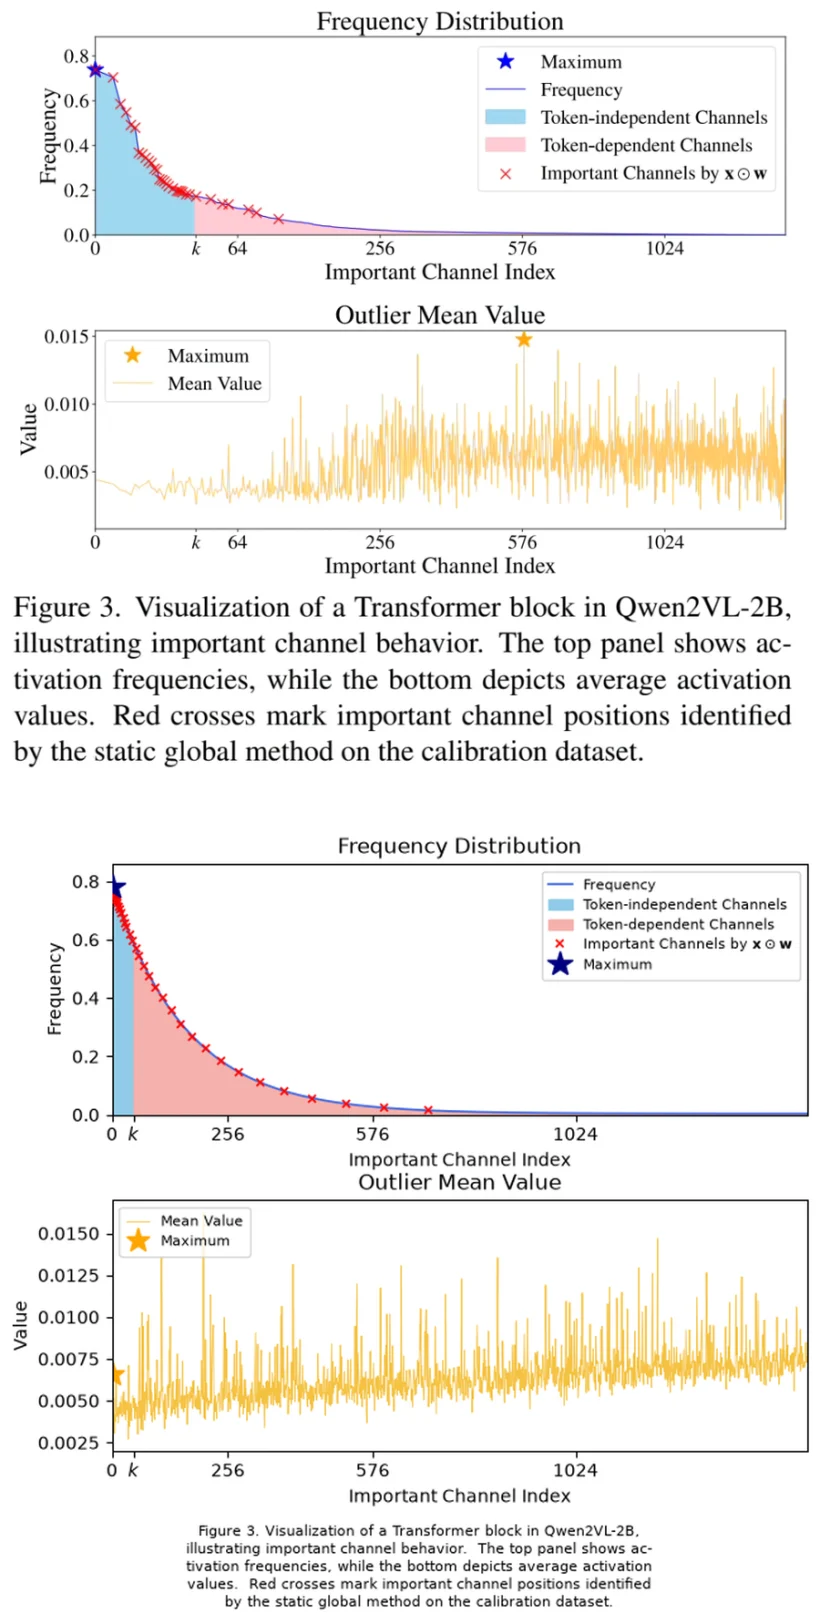
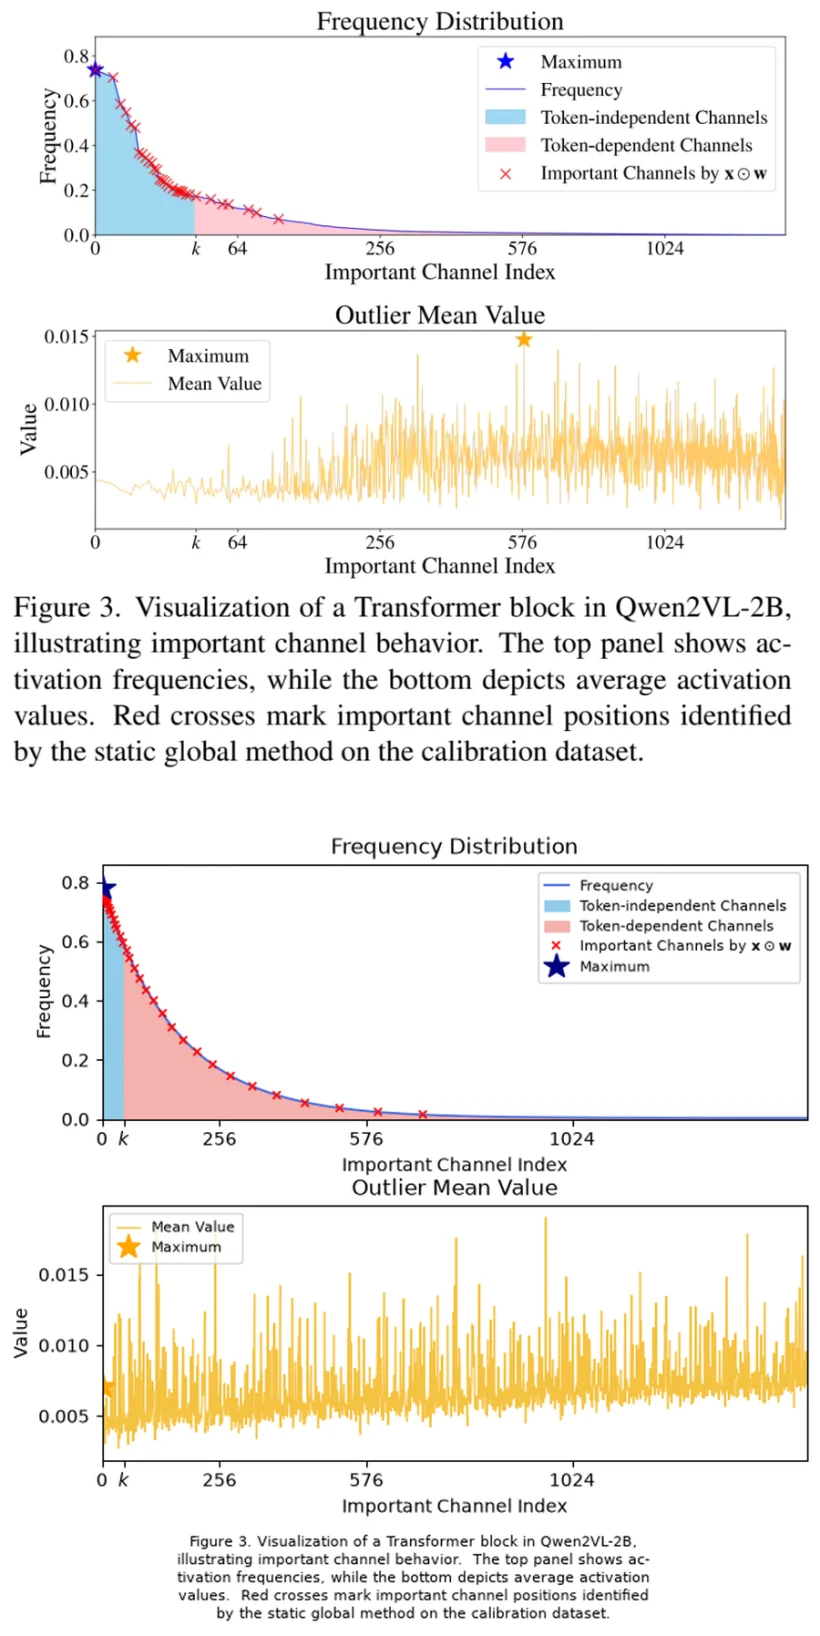
improve(replicas): 第五十六轮 —— 10 下半尖峰图加密（89%→102%）
上下分区探针：
  原图 上半 0.136 / 下半 0.221
  修前 上半 0.133 / 下半 0.176   ← 上半已匹配，下半差 20%
  现在 上半 0.135 / 下半 0.238   ← 99% / 108%

- 尖峰密度 0.16 → 0.26
- 尖峰幅度 gamma(2.2,0.0011) → gamma(2.4,0.0014)
- 均值线 lw 0.55 → 0.95

踩了个坑：前两次替换没生效，因为用 startswith('REPLICAS = [') 找区间终点，
但 fig01-06 用的是 REPLICAS = [...]、fig07-10 用的是 REPLICAS += [...]，
找到的是前面那个，导致区间为空。改成从 start 往后找第一个 REPLICAS 才对。

平均墨迹 97% → 98%

diff --git a/tools/figlab/replicas.py b/tools/figlab/replicas.py
@@ -649,6 +649,272 @@ def fig09():
     return _save(fig, "rep-09-activation-heatmap")
 
 
+REPLICAS = [
+    ("01-memory-latency", fig01, "效率 · 显存分解 + 端到端延迟",
+     "左侧破坏性堆叠条拆解显存（权重/前向/反向/梯度），右侧横向条对比端到端延迟，虚线+倍数标注加速比",
+     "efficiency", ["ICML", "NeurIPS", "MLSys"], ["效率"]),
+    ("02-fusion-gain", fig02, "效率 · 逐项融合增益",
+     "四行横向条逐级下降，弧形箭头标出每步增益，底部括号给总加速比",
+     "efficiency", ["MLSys", "ICML", "OSDI"], ["效率"]),
+    ("03-accuracy-tradeoff", fig03, "权衡 · 精度曲线 + 断轴消融",
+     "双折线对比多种量化方法随 cache 精度的衰减，(c) 用断轴柱状展示 stage 数的影响",
+     "tradeoff", ["ICLR", "ICML", "NeurIPS"], ["量化"]),
+    ("04-latency-scaling", fig04, "效率 · 延迟与显存扩展",
+     "横向条对比生成延迟 + 两条扩展曲线（VRAM / 延迟 vs 视频长度），带 OOM 标注",
+     "efficiency", ["CVPR", "ICCV", "NeurIPS"], ["生成"]),
+]
+
+# ---------------------------------------------------------------- 07 分组柱 + 并列热图
+
+def fig07():
+    fig = plt.figure(figsize=(6.6, 7.9))
+    gs = fig.add_gridspec(2, 3, height_ratios=[0.82, 1.0], hspace=0.30, wspace=0.32)
+
+    # ---- 上：分组柱（3 系列 × 6 稀疏度）
+    ax = fig.add_subplot(gs[0, :])
+    levels = [40, 50, 60, 70, 80, 90]
+    series = {
+        "MInference": ([40.4, 34.1, 27.3, 20.9, 14.3, 7.1], "#9E9E9E"),
+        "LServe": ([30.0, 25.3, 20.3, 15.9, 10.8, 5.5], "#8C1D2F"),
+        "Oracle": ([25.4, 21.2, 16.9, 12.7, 8.5, 4.2], "#FFFFFF"),
+    }
+    x = np.arange(len(levels))
+    w = 0.26
+    for i, (name, (vals, col)) in enumerate(series.items()):
+        off = (i - 1) * w
+        ec = "black" if name == "Oracle" else "none"
+        ax.bar(x + off, vals, w, color=col, edgecolor=ec, linewidth=0.7,
+               label=name, zorder=3)
+    for i, (name, (vals, col)) in enumerate(series.items()):
+        off = (i - 1) * w
+        for xi, v in zip(x + off, vals):
+            ax.text(xi, v + 0.7, "%.1f" % v, ha="center", va="bottom", fontsize=6.4,
+                    rotation=90)
+    ax.set_xticks(x, [str(l) for l in levels])
+    ax.set_xlabel("Sparsity Level (%)", fontsize=11)
+    ax.set_ylabel("Latency (ms)", fontsize=11)
+    ax.set_ylim(0, 48)
+    ax.set_yticks([0, 10, 20, 30, 40])
+    ax.axhline(42.3, ls=(0, (2, 1.5)), color="#C0392B", lw=1.1, zorder=2)
+    ax.text(5.3, 43.4, "Dense Attention: 42.3 ms", color="#C0392B", fontsize=8.2,
+            ha="right", va="bottom", fontweight="bold")
+    ax.legend(loc="upper center", bbox_to_anchor=(0.5, 1.13), ncol=3, frameon=False,
+              fontsize=9, handlelength=1.1)
+    # 1.3x 标注
+    ax.annotate("1.3 ×", xy=(x[0] + 0.0, 33), xytext=(x[0] - 0.62, 37),
+                fontsize=8.6, color="#C0392B",
+                arrowprops=dict(arrowstyle="-|>", color="#C0392B", lw=1.0,
+                                connectionstyle="arc3,rad=0.3", mutation_scale=10))
+    ax.annotate("1.3 ×", xy=(x[-1] + 0.0, 6.4), xytext=(x[-1] - 0.75, 9.4),
+                fontsize=8.6, color="#C0392B",
+                arrowprops=dict(arrowstyle="-|>", color="#C0392B", lw=1.0,
+                                connectionstyle="arc3,rad=0.3", mutation_scale=10))
+    ax.set_title("Figure 12: Prefilling Stage Attention Kernel Evaluation.",
+                 fontsize=10.5, fontweight="bold", pad=30)
+
+    # ---- 下：三张热图 + 共享色条
+    from matplotlib.colors import LinearSegmentedColormap
+    cmap_hm = LinearSegmentedColormap.from_list(
+        'acc', ['#E24A33', '#F2C230', '#7FD8A0', '#20C080'])
+    rng = np.random.default_rng(7)
+    titles = ["(a) $N_P$ = 64, $N_L$ = 16,  Budget: 3072",
+              "(b) $N_P$ = 32, $N_L$ = 16,  Budget: 3072",
+              "(c) $N_P$ = 64, $N_L$ = 16,  Budget: 3072"]
+    im = None
+    axes_hm = []
+    for k in range(3):
+        axh = fig.add_subplot(gs[1, k])
+        data = np.full((12, 7), 0.94)
+        # 少量低分格子
+        for _ in range(rng.integers(3, 6)):
+            data[rng.integers(0, 12), rng.integers(0, 7)] = rng.choice([0.18, 0.30, 0.45])
+        im = axh.imshow(data, cmap=cmap_hm, vmin=0.0, vmax=1.06, aspect="auto")
+        axh.set_title(titles[k], fontsize=6.8, pad=3)
+        axh.set_yticks(range(12))
+        axh.set_yticklabels(["", "0", "", "22", "", "44", "", "67", "", "89", "", ""],
+                            fontsize=5.6)
+        axh.set_xticks(range(7))
+        axh.set_xticklabels(["0K", "49K", "85K", "128K", "171K", "211K", "256K"],
+                            fontsize=5.2, rotation=35, ha="right")
+        if k == 0:
+            axh.set_ylabel("Document Depth (%)", fontsize=6.6)
+        axh.set_xlabel("Document Length", fontsize=6.6)
+        axes_hm.append(axh)
+
+    cax = fig.add_axes([0.92, 0.10, 0.012, 0.20])
+    cb = fig.colorbar(im, cax=cax)
+    cb.set_label("Accuracy", fontsize=6.6)
+    cb.ax.tick_params(labelsize=5.6)
+
+    fig.text(0.5, 0.015,
+             "Figure 13: Hierarchical paging enables LServe to preserve the long-context retrieval "
+             "capabilities of the original model without\nincreasing the key-value (KV) token budget.  "
+             "We use Llama-3-8B for the ablation.",
+             ha="center", va="bottom", fontsize=8.0, fontweight="bold")
+    fig.subplots_adjust(bottom=0.12, top=0.93, left=0.10, right=0.90)
+    return _save(fig, "rep-07-grouped-heatmap")
+
+
+# ---------------------------------------------------------------- 08 共享图例 + 双行归一化柱
+
+def fig08():
+    fig, axes = plt.subplots(2, 1, figsize=(6.4, 3.64), sharex=False)
+    methods = ["QServe", "vLLM", "DuoAttention", "MInference", "LServe (Ours)"]
+    cols = ["#D9D9D9", "#A6A6A6", "#595959", "#000000", "#8C1D2F"]
+    rows = [
+        ("A100\nLlama-3-8B", ["64K", "96K", "128K", "192K", "256K", "320K", "Geomean"],
+         [[0.86, 0.78, 0.73, 0.58, 0.48, 0.34, 0.60],
+          [0.56, 0.40, 0.45, 0.61, 0.53, 0.39, 0.48],
+          [0.68, 0.80, 0.86, 0.84, 0.80, 0.86, 0.81],
+          [0.72, 0.73, 0.77, 0.58, 0.48, 0.44, 0.56],
+          [1.00, 1.00, 1.00, 1.00, 1.00, 1.00, 1.00]]),
+        ("A100\nLlama-2-7B", ["16K", "32K", "64K", "96K", "128K", "160K", "Geomean"],
+         [[0.90, 0.97, 0.85, 0.78, 0.72, 0.69, 0.81],
+          [0.76, 0.63, 0.48, 0.43, 0.29, 0.45, 0.56],
+          [0.81, 0.75, 0.79, 0.79, 0.79, 0.81, 0.79],
+          [0.34, 0.36, 0.70, 0.72, 0.48, 0.56, 0.47],
+          [1.00, 1.00, 1.00, 1.00, 1.00, 1.00, 1.00]]),
+    ]
+    w = 0.225
+    for ax, (ylabel, xt, mat) in zip(axes, rows):
+        x = np.arange(len(xt))
+        for i, (m, c) in enumerate(zip(methods, cols)):
+            off = (i - 2) * w
+            ax.bar(x + off, mat[i], w * 0.98, color=c, edgecolor="black" if c == "#000000" else "none",
+                   linewidth=0.9)
+            for xi, v in zip(x + off, mat[i]):
+                ax.text(xi, v + 0.022, "%.2f" % v, ha="center", va="bottom",
+                        fontsize=6.0, rotation=90)
+        ax.set_xticks(x, xt, fontsize=9)
+        ax.tick_params(axis="x", pad=3)
+        ax.set_ylim(0, 1.16)
+        ax.set_yticks([0, 0.2, 0.4, 0.6, 0.8, 1.0])
+        ax.set_ylabel(ylabel, fontsize=9.5, rotation=0, ha="right", va="center", labelpad=18)
+        ax.tick_params(axis="y", labelsize=8.5, length=4, width=1.2)
+        for sp in ("top", "right"):
+            ax.spines[sp].set_visible(False)
+
+    handles = [Rectangle((0, 0), 1, 1, fc=c, ec="black" if c == "#000000" else "none",
+                         lw=0.6) for c in cols]
+    fig.legend(handles, methods, loc="upper center", bbox_to_anchor=(0.5, 1.03),
+               ncol=5, frameon=False, fontsize=9.5, handlelength=1.1, columnspacing=1.1)
+    fig.text(0.5, 0.005,
+             "Figure 11: Prefilling Speed Evaluation. Performance comparison\n"
+             "of long-sequence prefilling across different serving frameworks,\n"
+             "normalized to LServe's speed.",
+             ha="center", va="bottom", fontsize=9.5, fontweight="bold")
+    fig.subplots_adjust(top=0.89, bottom=0.21, left=0.145, right=0.995, hspace=0.30)
+    return _save(fig, "rep-08-shared-legend")
+
+
+# ---------------------------------------------------------------- 09 激活热图 + 重要通道
+
+def fig09():
+    rng = np.random.default_rng(12)
+    fig, axes = plt.subplots(2, 1, figsize=(6.6, 6.17))
+    n_ch, n_tok = 1536, 400
+
+    # (上) 输入激活：通道基准 × token 调制，再叠"块状"增强（真实激活的局部相关结构）
+    ch_base = rng.lognormal(0.0, 0.75, n_ch)
+    act = ch_base[:, None] * np.ones((1, n_tok))
+    # 竖向块：均匀铺满整幅（原图不是中间一坨，而是全宽分布）
+    for _ in range(34):
+        c0 = int(rng.integers(0, n_ch - 40))
+        t0 = int(rng.integers(0, n_tok - 12))
+        c1 = c0 + int(rng.integers(25, 180))
+        t1 = t0 + int(rng.integers(10, 90))
+        act[c0:c1, t0:t1] *= rng.uniform(1.6, 3.4)
+    # 高亮通道带（原图最明显的是横向橙色条带）
+    for _ in range(14):
+        c0 = int(rng.integers(0, n_ch - 60))
+        act[c0:c0 + int(rng.integers(15, 55)), :] *= rng.uniform(2.4, 4.2)
+    # 暗通道带（原图黑/亮交替的关键）
+    for _ in range(16):
+        c0 = int(rng.integers(0, n_ch - 50))
+        act[c0:c0 + int(rng.integers(12, 45)), :] *= rng.uniform(0.06, 0.22)
+    # token 方向的细粒度调制（形成原图那种竖向细密条纹）
+    tok_fine = rng.gamma(4.0, 0.22, n_tok)
+    act *= tok_fine[None, :]
+    # token 分段的强弱起伏（原图有明显的"暗段/亮段"竖向节奏）
+    seg = np.ones(n_tok)
+    pos = 0
+    while pos < n_tok:
+        w = int(rng.integers(6, 26))
+        seg[pos:pos + w] = rng.uniform(0.08, 1.70)
+        pos += w + int(rng.integers(0, 8))
+    act *= seg[None, :]
+    # 额外的"亮竖条"：少数 token 列整体极亮（原图最显眼的特征）
+    for _ in range(46):
+        c0 = int(rng.integers(0, n_tok))
+        w = int(rng.integers(1, 4))
+        act[:, c0:c0 + w] *= rng.uniform(3.0, 7.0)
+    # 通道方向的细粒度调制（横向细纹）
+    ch_fine = rng.gamma(6.0, 0.16, n_ch)
+    act *= ch_fine[:, None]
+    # 散点噪声
+    act *= rng.gamma(3.0, 0.24, (n_ch, n_tok))
+    # 少数 outlier 通道整体更亮
+    out_ch = rng.choice(n_ch, 90, replace=False)
+    act[out_ch, :] *= rng.uniform(2.5, 6.0, (90, 1))
+    # 图像/语言两段的整体差异
+    act[:, :164] *= 1.15
+    act[:, 266:] *= 0.9
+
+    ax = axes[0]
+    # 真实激活图常用 log 归一化；再叠 gamma 拉伸提高对比
+    act_disp = np.log1p(act)
+    act_disp = (act_disp - act_disp.min()) / (act_disp.max() - act_disp.min() + 1e-9)
+    act_disp = act_disp ** 0.55
+    ax.imshow(act_disp, aspect="auto", cmap="magma", origin="upper",
+              extent=[0, n_tok, n_ch, 0],
+              vmin=np.percentile(act_disp, 28), vmax=np.percentile(act_disp, 94))
+    ax.set_title("Input Activations", fontsize=12)
+    ax.set_ylabel("Channel Index", fontsize=10)
+    ax.set_xlabel("Token Index", fontsize=10)
+    ax.text(70, 110, "Visual Tokens", fontsize=8.5, color="k",
+            bbox=dict(fc="white", ec="none", alpha=0.85, pad=2))
+    ax.text(300, 110, "Language Tokens", fontsize=8.5, color="k",
+            bbox=dict(fc="white", ec="none", alpha=0.85, pad=2))
+    for xv, c, ls in [(16, "green", "-"), (164, "green", "--"), (266, "red", "-")]:
+        ax.axvline(xv, color=c, ls=ls, lw=1.4)
+
+    # (下) 重要通道：密集亮点 + 通道带聚集（原图是横贯全宽的亮条纹）
+    imp = np.zeros((n_ch, n_tok))
+    base_dens = rng.beta(0.60, 4.0, n_ch) * 0.36    # 每通道基础密度
+    for ci in range(n_ch):
+        if base_dens[ci] > 0.004:
+            cols = rng.random(n_tok) < base_dens[ci]
+            imp[ci, cols] = rng.uniform(0.75, 1.0, cols.sum())
+    # 强调通道带（对应上图高亮区）
+    for lo, hi in [(0, 140), (400, 560), (1120, 1290)]:
+        band = rng.random((hi - lo, n_tok)) < rng.uniform(0.30, 0.55)
+        imp[lo:hi, :] = np.maximum(imp[lo:hi, :], band * rng.uniform(0.95, 1.0))
+
+    ax = axes[1]
+    ax.imshow(imp, aspect="auto", cmap="hot", origin="upper",
+              extent=[0, n_tok, n_ch, 0], vmin=0, vmax=0.26)
+    ax.set_title("Important Channels", fontsize=12)
+    ax.set_ylabel("Channel Index", fontsize=10)
+    ax.set_xlabel("Token Index", fontsize=10)
+    for xv, c, ls in [(16, "green", "-"), (164, "green", "--"), (266, "red", "-")]:
+        ax.axvline(xv, color=c, ls=ls, lw=1.4)
+
+    handles = [Line2D([], [], color="green", lw=1.6, label="Image Token Start"),
+               Line2D([], [], color="green", lw=1.6, ls="--", label="Image Token End"),
+               Line2D([], [], color="red", lw=1.6, label="Generation Token Start")]
+    ax.legend(handles=handles, loc="upper center", bbox_to_anchor=(0.5, -0.19),
+              ncol=3, frameon=True, fontsize=8.5, handlelength=1.8)
+    fig.text(0.5, -0.085,
+             "Figure 2. Visualization of a Transformer block in Qwen2VL-2B,\n"
+             "illustrating token value distributions (top) and the positions of im-\n"
+             "portant channels (bottom).  In the top panel, brightness reflects\n"
+             "token magnitude, while in the bottom panel, highlighted positions\n"
+             "denote important channels.",
+             ha="center", va="bottom", fontsize=13.5, linespacing=1.45)
+    fig.subplots_adjust(top=0.95, bottom=0.24, left=0.12, right=0.98, hspace=0.34)
+    return _save(fig, "rep-09-activation-heatmap")
+
+
 def fig10():
     rng = np.random.default_rng(3)
     fig, axes = plt.subplots(2, 1, figsize=(6.4, 6.20))
@@ -683,11 +949,11 @@ def fig10():
     # 基线缓慢上升 + 伽马分布尖峰（原图就是这个形态）
     base = 0.0042 + 0.0030 * (idx / n) ** 0.7
     val = base + rng.normal(0, 0.0006, n)
-    spikes = rng.random(n) < 0.16
-    val[spikes] += rng.gamma(2.2, 0.0011, spikes.sum())
+    spikes = rng.random(n) < 0.26
+    val[spikes] += rng.gamma(2.4, 0.0014, spikes.sum())
     val = np.clip(val, 0, None)
     ax = axes[1]
-    ax.plot(idx, val, color="#F5C242", lw=0.55, label="Mean Value")
+    ax.plot(idx, val, color="#F5C242", lw=0.95, label="Mean Value")
     ax.plot([0], [val[0]], "*", color="orange", ms=14, label="Maximum")
     ax.set_xlabel("Important Channel Index", fontsize=10)
     ax.set_ylabel("Value", fontsize=10)
